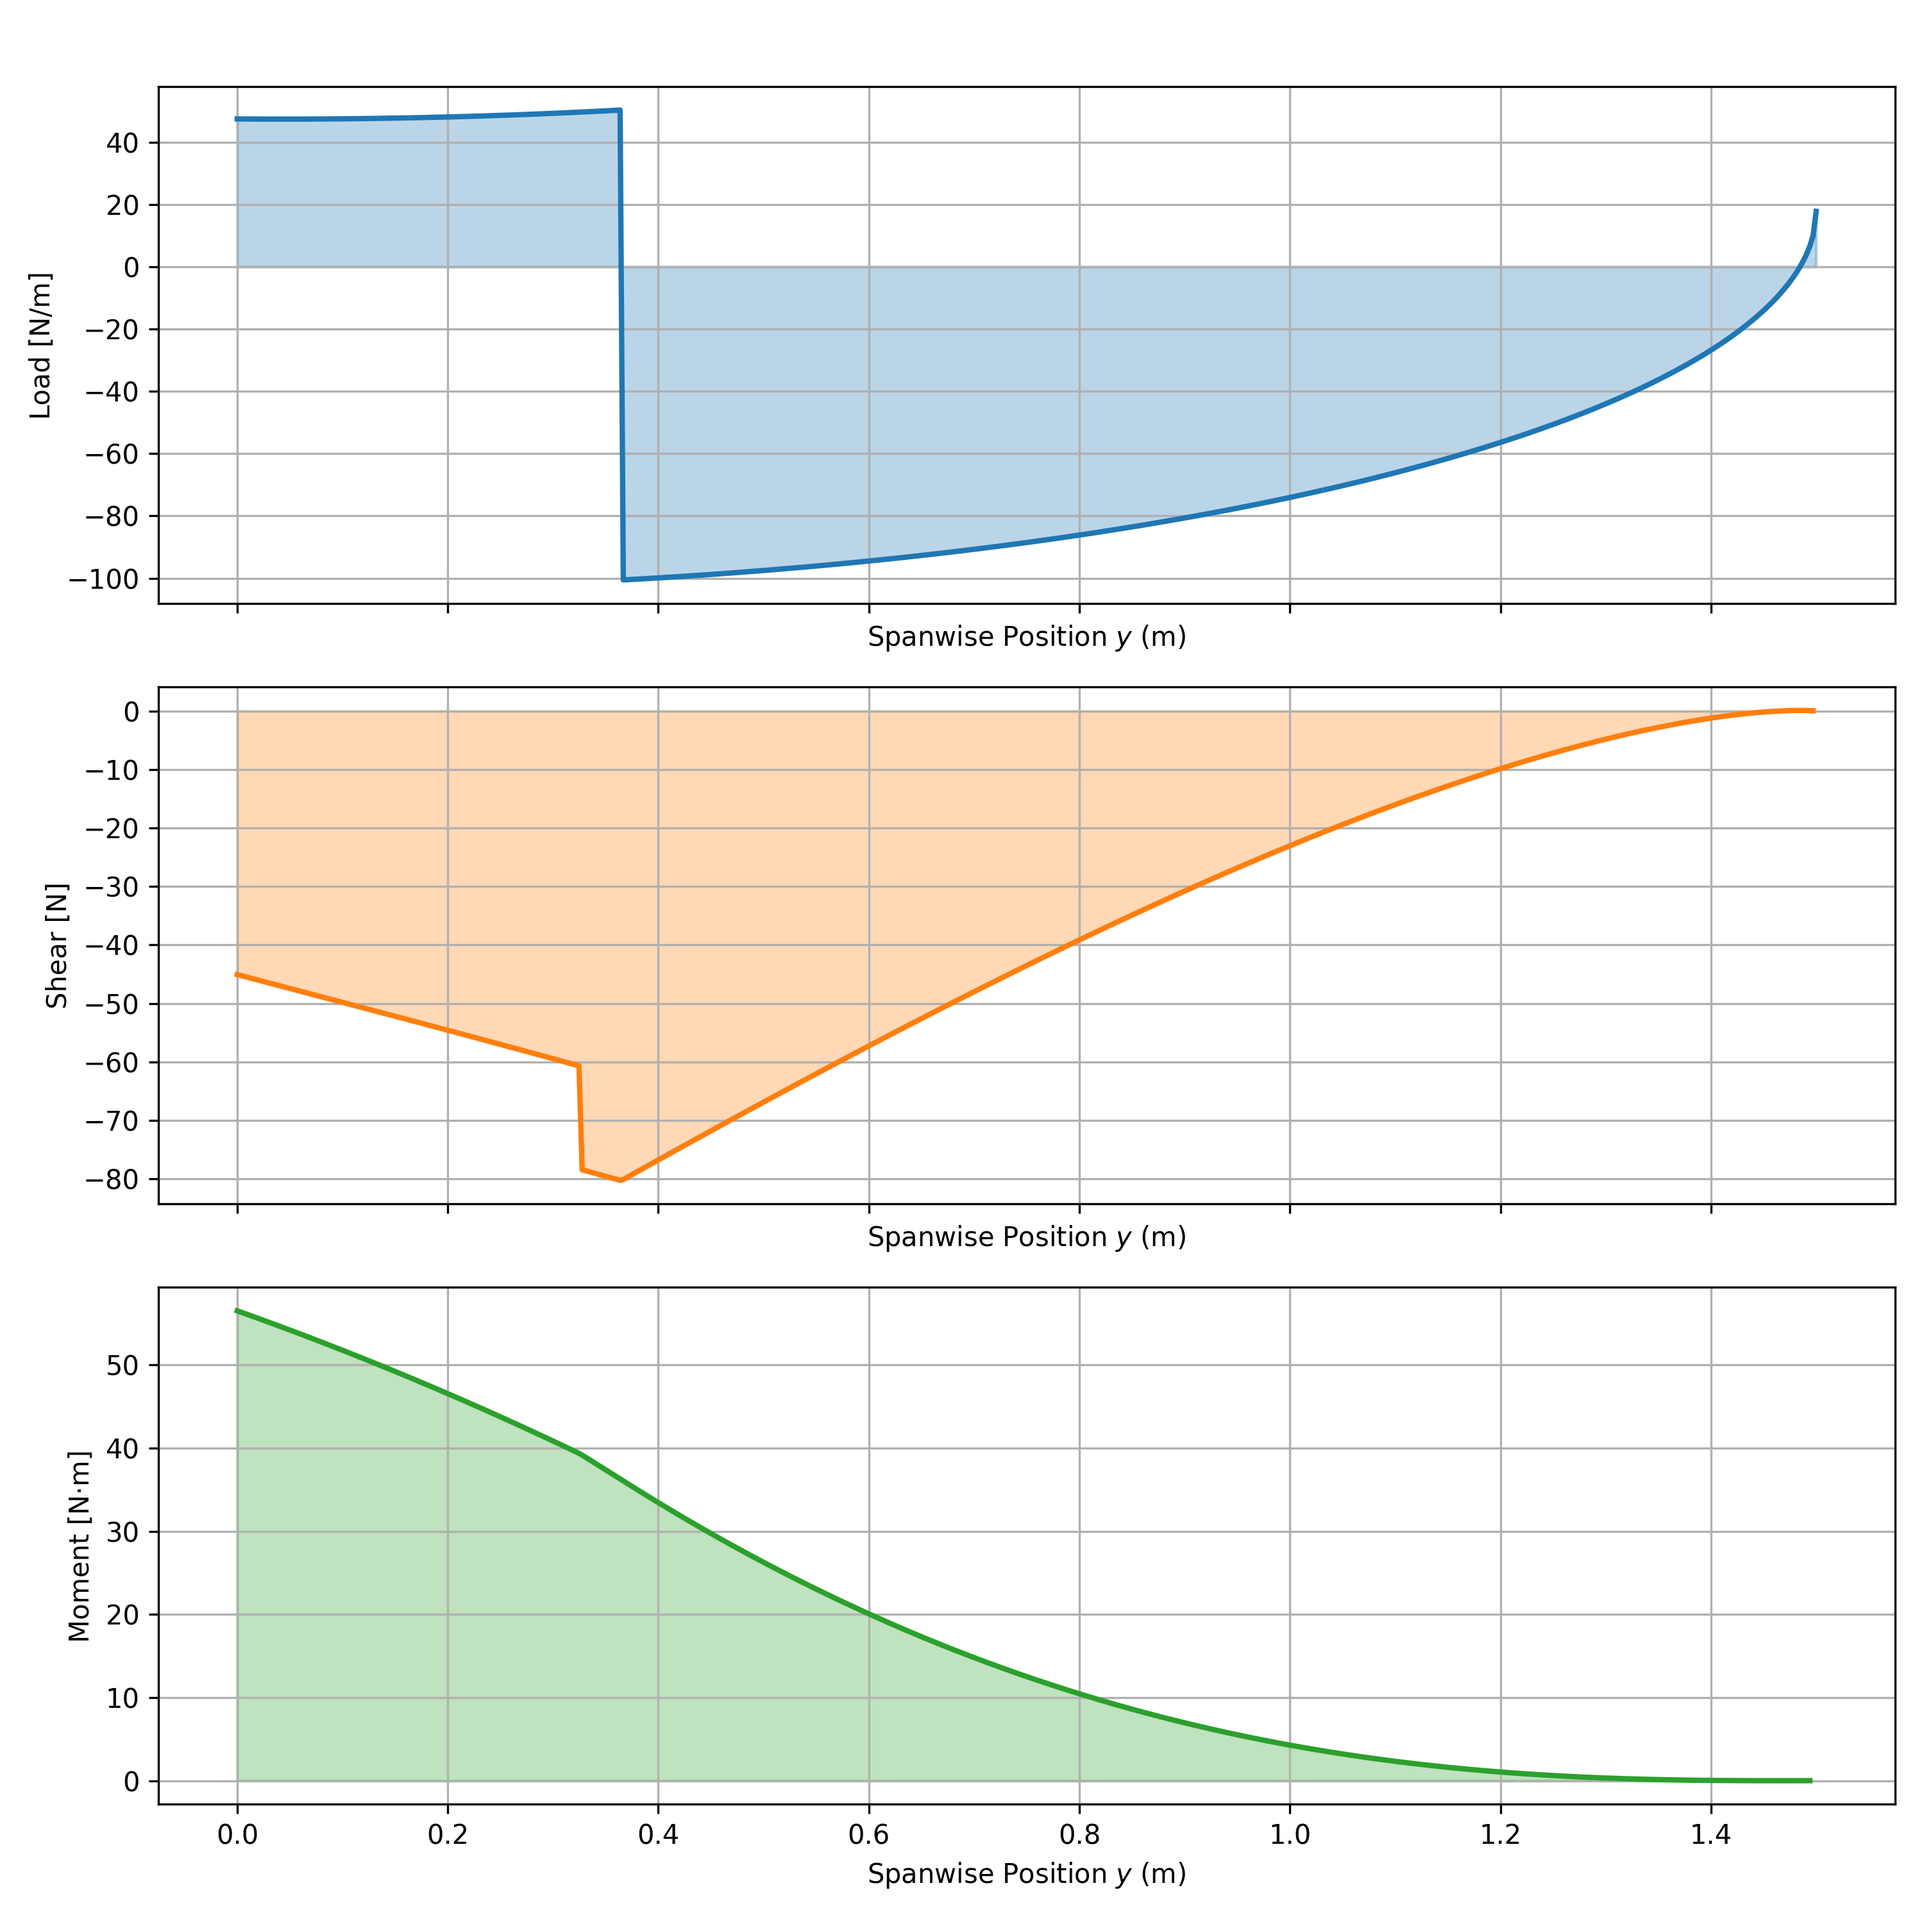
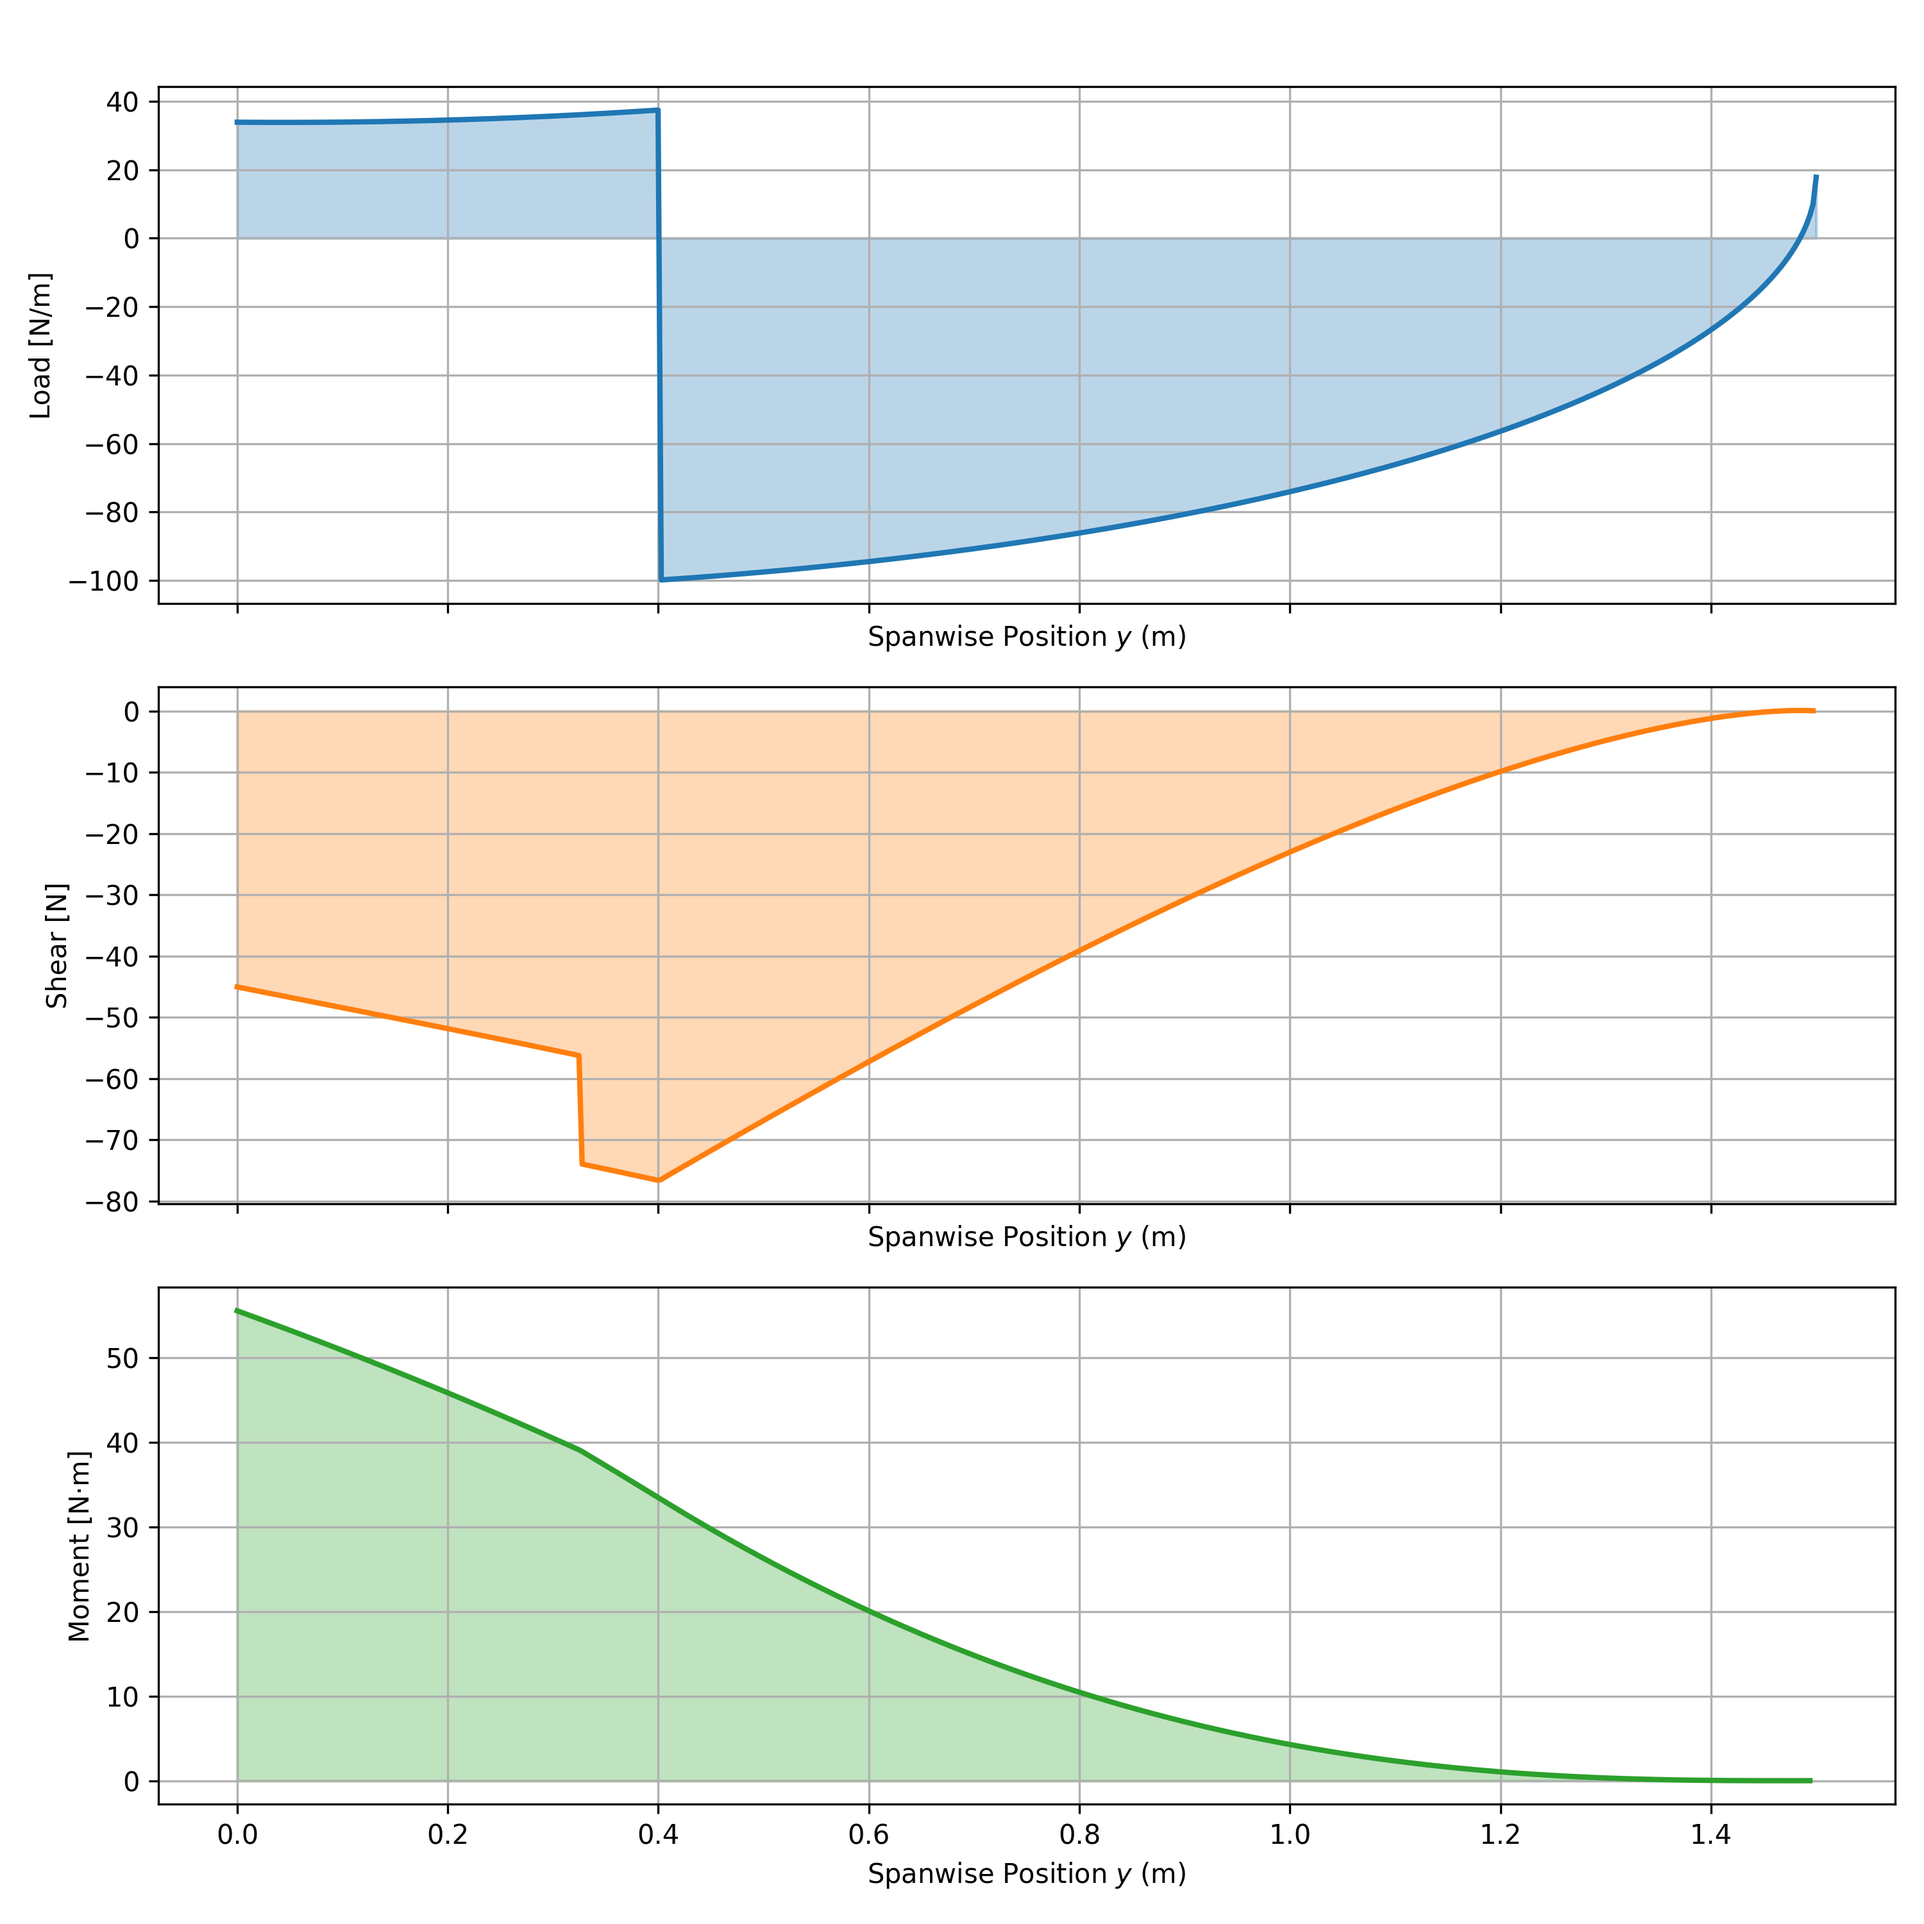
FBI don't look

diff --git a/DetailedDesign/subsystems/structures.py b/DetailedDesign/subsystems/structures.py
@@ -35,14 +35,14 @@ class Structures:
         self.rho = self.inputs['rho_0']
         # self.V_max = self.inputs['V_cruise']
 
-        self.M_to = inputs["M_to"]
+        # self.M_to = inputs["M_to"]
 
         self.mass_payload = inputs["payload_mass"]
-        self.mass_hardware = inputs["mass_hardware"]
+        # self.mass_hardware = inputs["mass_hardware"]
         self.mass_battery = inputs["mass_battery"]
         self.battery_length = inputs['battery_length']
         self.mass_propulsion = inputs["mass_propulsion"]
-        #self.taper_ratio = inputs['taper_ratio']
+        self.taper_ratio = inputs['taper_ratio']
         
         self.wing_span = inputs["wing_span"]
         self.mass_wing = inputs['mass_wing']
@@ -295,7 +295,7 @@ class Structures:
         axs[3].grid(True)
 
         plt.tight_layout(rect=[0, 0, 1, 0.97])
-        plt.savefig("DetailedDesign/subsystems/Plots/NVM_plot_propeller_bom.png", dpi=300)
+        plt.savefig("DetailedDesign/subsystems/Plots/NVM_plot_propeller_boom.png", dpi=300)
         plt.show()
 
         return None
